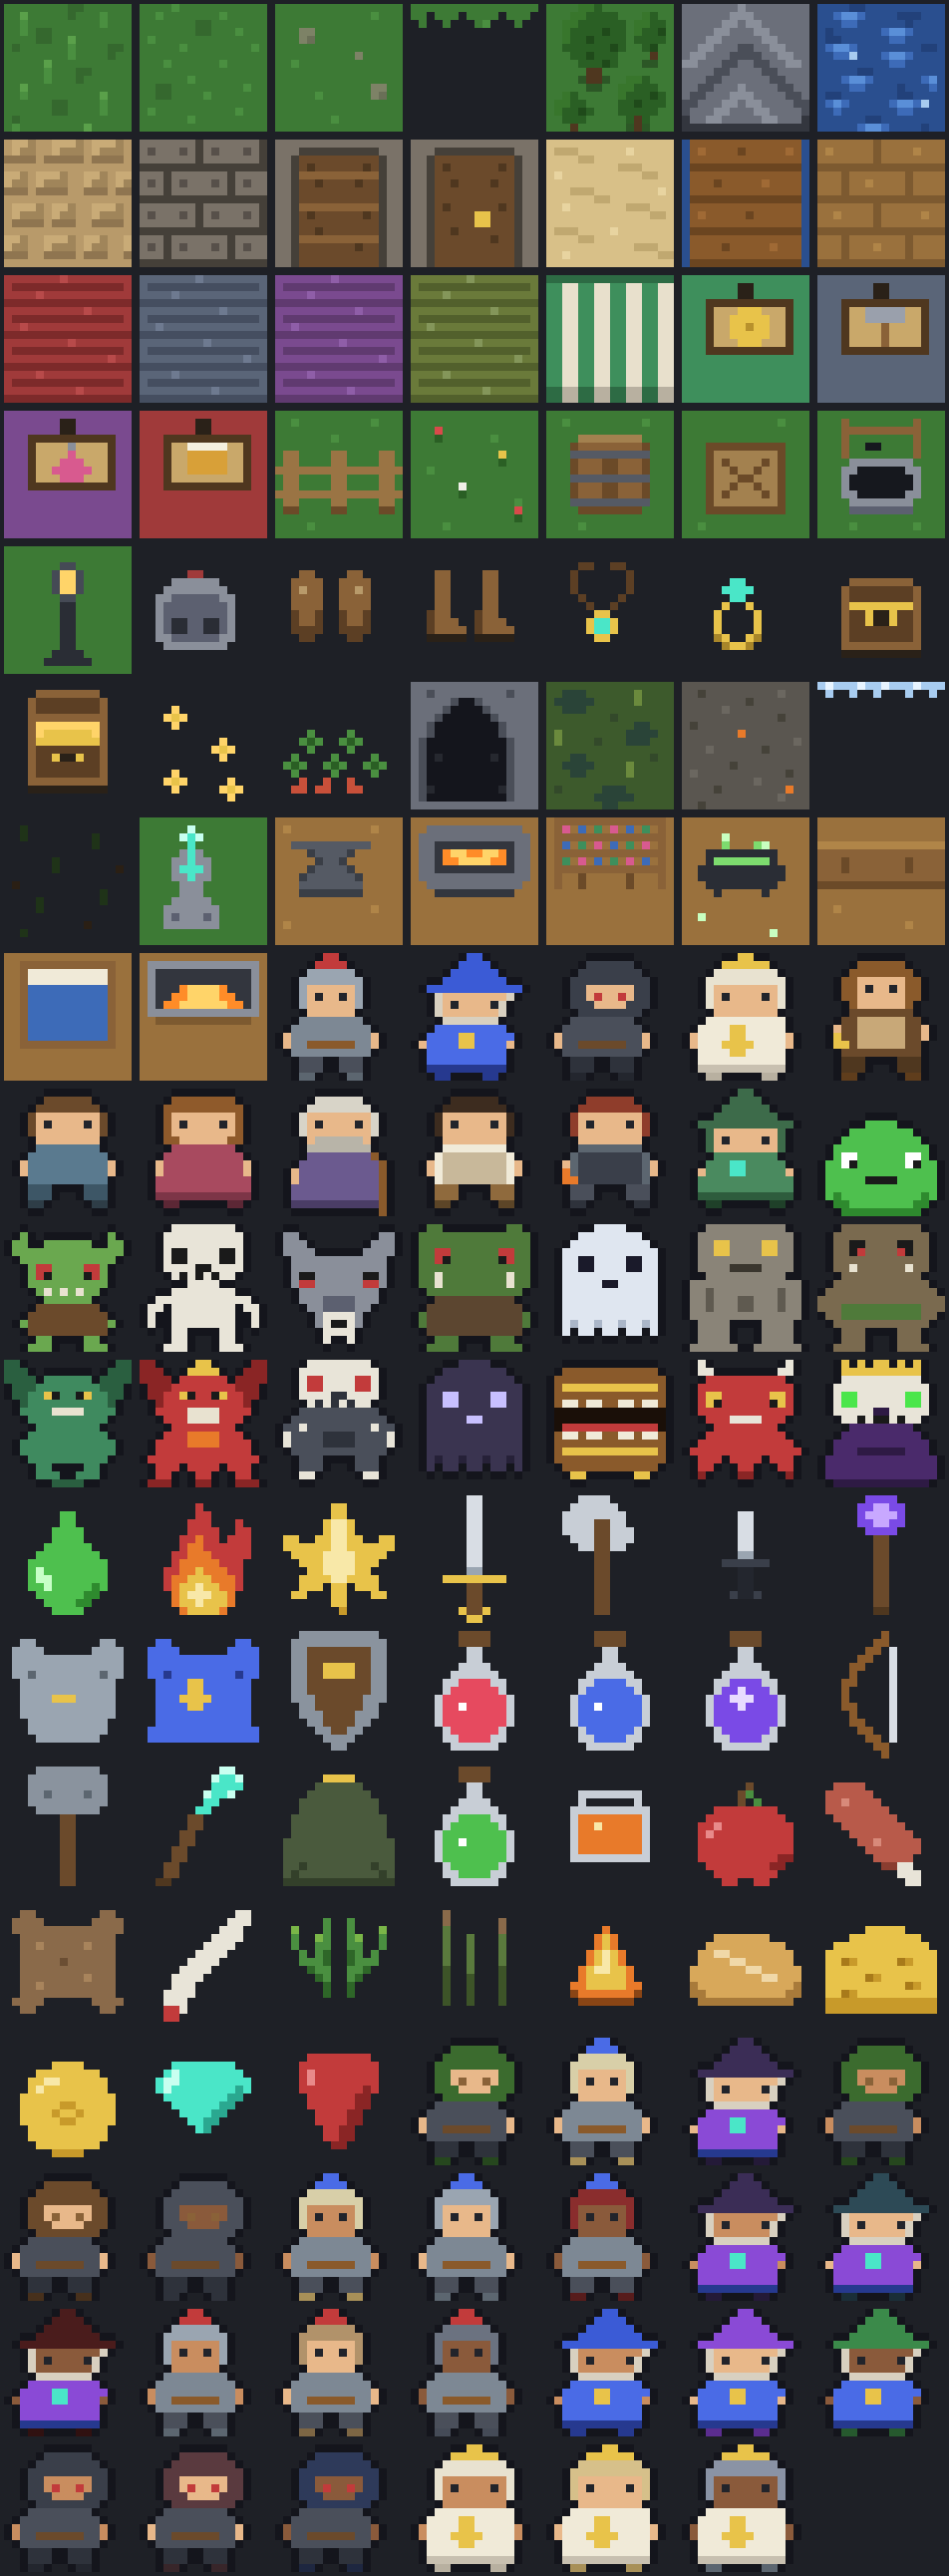
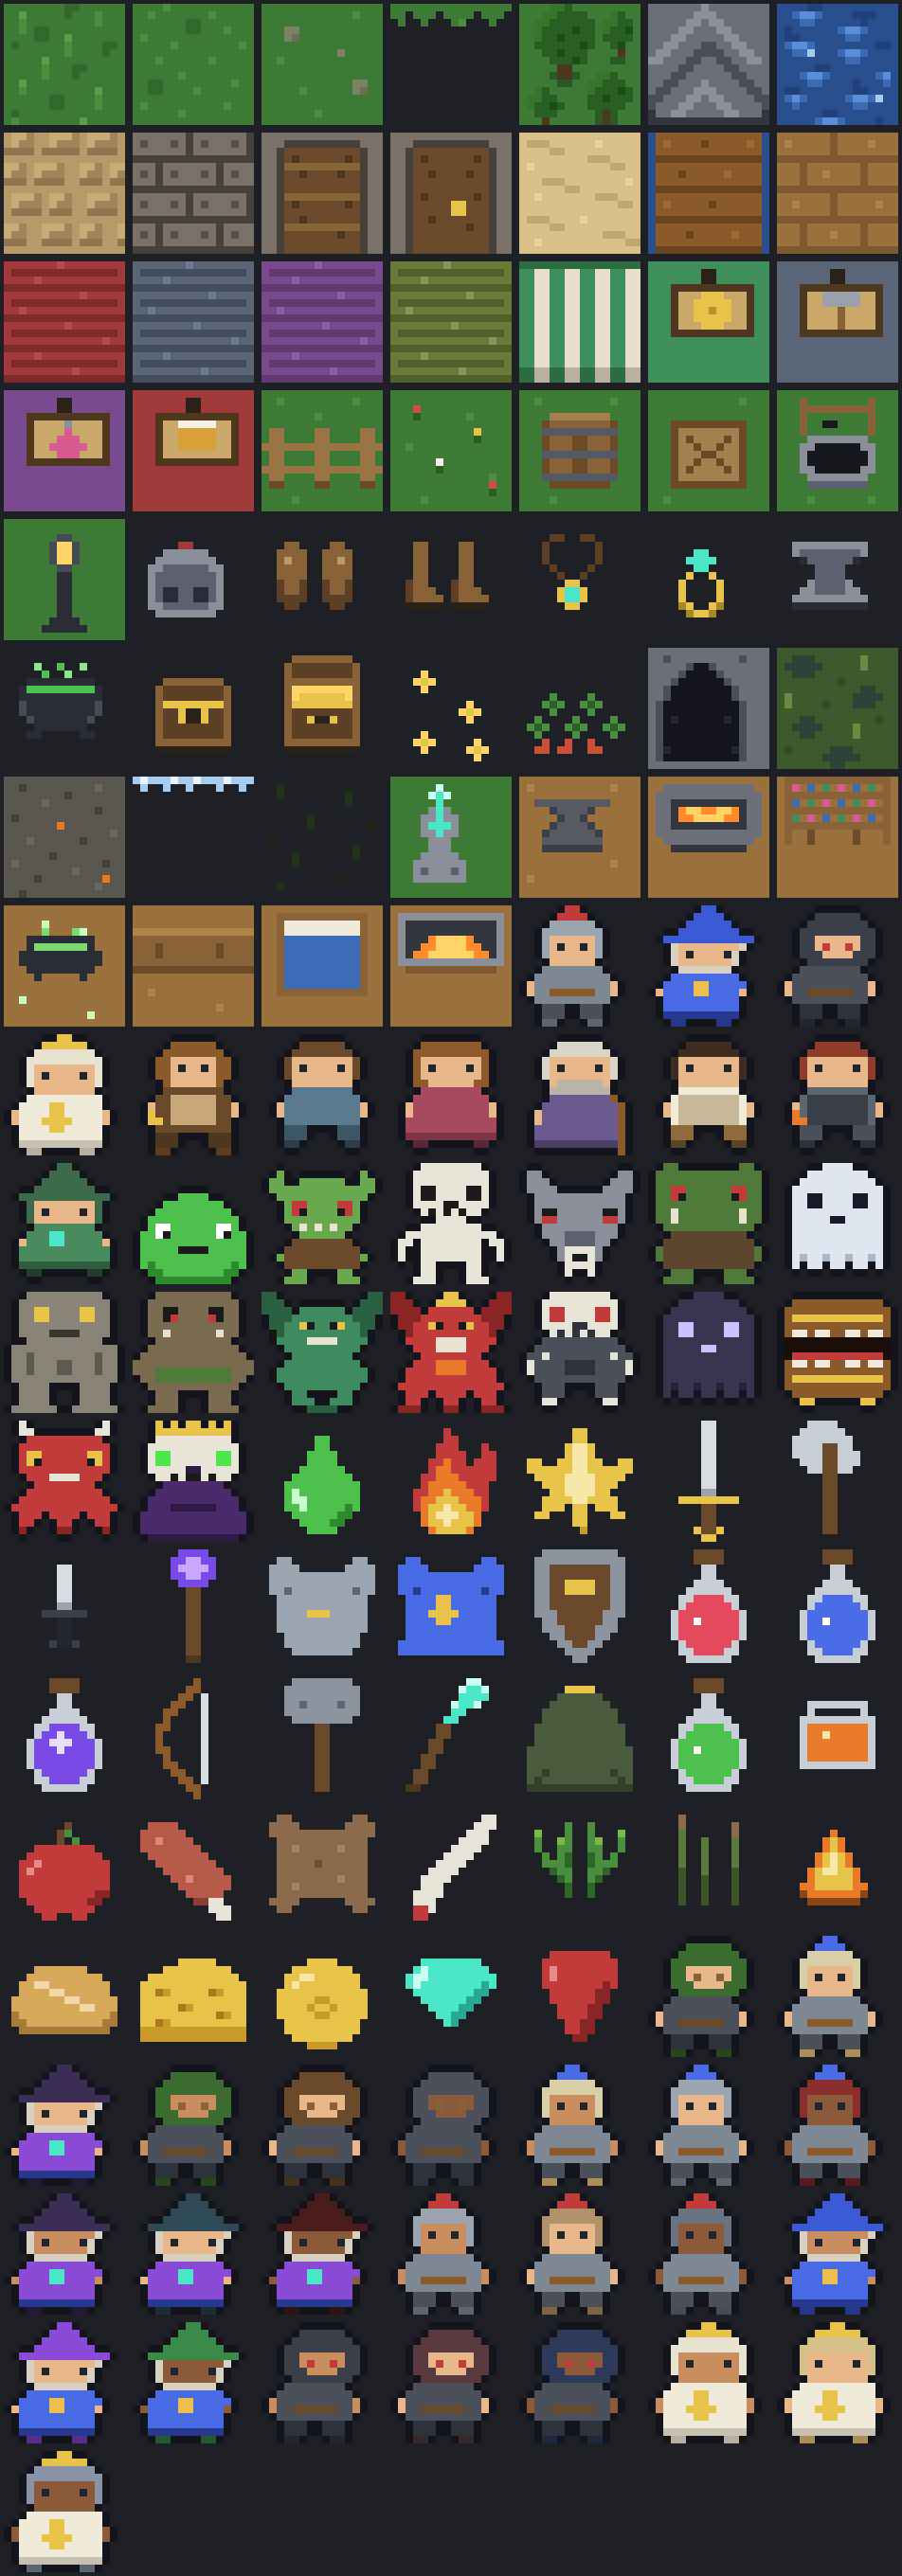
feat: craft stations findable and reachable (v0.33 Signposted)
Anvil and cauldron icons over the FORGE and BREWS doors, a Travel to
town button on the Craft tab when away (fast-travels to Pixelheim Gate
once discovered), and a green at-the-station banner when standing in
one. Changelog also records the Esc and Drop All fixes from #74.

diff --git a/e2e/station-access.spec.ts b/e2e/station-access.spec.ts
@@ -1,0 +1,42 @@
+import { expect, test } from '@playwright/test'
+import { loadVeteranAt } from './helpers'
+
+test('the craft tab walks you to the stations', async ({ page }) => {
+  // a veteran out in the wilds, town already seen
+  await loadVeteranAt(page, 30, 17)
+  await page.evaluate(() => {
+    const raw = localStorage.getItem('pixelheim-save-v1')!
+    const save = JSON.parse(raw)
+    save.state.world.discovered = { overworld: ['24,21'] } // the town gate marker
+    localStorage.setItem('pixelheim-save-v1', JSON.stringify(save))
+  })
+  await page.reload()
+  await page.getByRole('button', { name: 'Continue' }).click()
+
+  await page.keyboard.press('i')
+  await page.getByRole('button', { name: 'Craft', exact: true }).click()
+
+  // away from a station: the guide row offers the trip
+  await expect(page.getByText('The stations are in town')).toBeVisible()
+  await page.getByRole('button', { name: 'Travel to town' }).click()
+
+  // inventory closed, hero standing at Pixelheim Gate
+  await expect(page.getByTestId('world-hero')).toHaveAttribute('data-pos', '24,20')
+  await expect(page.getByText('You travel to Pixelheim Gate.')).toBeVisible()
+})
+
+test('standing at the forge, the craft tab says so', async ({ page }) => {
+  await loadVeteranAt(page, 4, 4, 'town_smith')
+  await page.keyboard.press('i')
+  await page.getByRole('button', { name: 'Craft', exact: true }).click()
+  await expect(page.getByTestId('station-banner')).toContainText("Hilda's forge")
+})
+
+test('station doors carry their trade icons', async ({ page }) => {
+  await loadVeteranAt(page, 24, 20)
+  // walk south into town
+  await page.keyboard.press('ArrowDown')
+  await expect(page.getByTestId('world-viewport')).toHaveAttribute('data-map', 'town')
+  const icons = page.locator('[data-testid="door-sign"][data-icon]')
+  await expect(icons).toHaveCount(2)
+})

diff --git a/src/ui/panels/Inventory.tsx b/src/ui/panels/Inventory.tsx
@@ -7,6 +7,7 @@ import { JOB_NAMES, JOB_STATIONS } from "../../game/economy/jobs";
 import { canCraft, RECIPES } from "../../game/economy/recipes";
 import type { EquippedSlot, GrantStat, ItemCategory } from "../../game/types";
 import { dispatch, useGameState, useHero } from "../../state/store";
+import { waypointDiscovered, WAYPOINTS } from "../../world/waypoints";
 import { Sprite } from "../widgets/Sprite";
 
 const TABS: { id: ItemCategory | "all" | "craft"; label: string }[] = [
@@ -31,6 +32,8 @@ const DOLL_SLOTS: { slot: EquippedSlot; label: string }[] = [
   { slot: "ring2", label: "Ring" },
   { slot: "feet", label: "Feet" },
 ];
+
+const TOWN_GATE = WAYPOINTS.find((w) => w.id === "town_gate");
 
 const GRANT_STATS: { stat: GrantStat; label: string }[] = [
   { stat: "strength", label: "STR" },
@@ -59,6 +62,12 @@ export function Inventory() {
         .toSorted(
           (a, b) => gearItem(a).category.localeCompare(gearItem(b).category) || gearName(a).localeCompare(gearName(b)),
         );
+
+  // Which station (if any) the hero is standing in, and whether town is reachable.
+  const atStationId = (Object.entries(JOB_STATIONS) as [keyof typeof JOB_STATIONS, { mapId: string }][]).find(
+    ([, station]) => state.world?.position.mapId === station.mapId,
+  )?.[0];
+  const townKnown = TOWN_GATE ? waypointDiscovered(TOWN_GATE, state.world?.discovered ?? {}) : false;
 
   const weight = carriedWeight(state.inventory, state.gear, state.equipped);
   const capacity = carryCapacity(hero, state.gear, state.equipped);
@@ -157,6 +166,27 @@ export function Inventory() {
         </div>
 
         <div className="item-list">
+          {tab === "craft" && atStationId && (
+            <p className="station-banner" data-testid="station-banner">
+              You are at {atStationId === "smithing" ? "Hilda's forge" : "Vex's cauldron"} - craft freely.
+            </p>
+          )}
+          {tab === "craft" && !atStationId && !inBattle && (
+            <div className="station-travel">
+              <span className="item-locked">The stations are in town: the FORGE and BREWS doors.</span>
+              <button
+                className="btn btn-small"
+                disabled={!townKnown}
+                title={townKnown ? "Fast travel to Pixelheim Gate" : "Discover Pixelheim Gate first"}
+                onClick={() => {
+                  dispatch({ type: "TOGGLE_INVENTORY" });
+                  dispatch({ type: "FAST_TRAVEL", waypointId: "town_gate" });
+                }}
+              >
+                Travel to town
+              </button>
+            </div>
+          )}
           {tab === "craft" &&
             RECIPES.map((recipe) => {
               const result = getItem(recipe.itemId);

diff --git a/src/app/index.css b/src/app/index.css
@@ -911,6 +911,23 @@ body {
     align-self: auto;
   }
 }
+.station-banner {
+  margin: 0;
+  padding: 6px 10px;
+  color: #8ae68a;
+  background: rgba(78, 192, 78, 0.08);
+  border: 1px solid rgba(78, 192, 78, 0.35);
+  font-size: 12px;
+}
+.station-travel {
+  display: flex;
+  align-items: center;
+  justify-content: space-between;
+  gap: 10px;
+  padding: 6px 10px;
+  border: 1px solid var(--border);
+  background: var(--bg-panel-2);
+}
 .merchant-line {
   color: var(--text-dim);
   font-size: 12px;

diff --git a/src/world/signs.ts b/src/world/signs.ts
@@ -4,19 +4,19 @@ import { getMap } from "./maps/index";
  * Door signs: the town's buildings say what they are, so nobody wanders the
  * village hunting for the forge. Keyed by the map a door leads into.
  */
-export const DOOR_SIGNS: Record<string, string> = {
-  town_shop: "GOODS",
-  town_smith: "FORGE",
-  town_alchemist: "BREWS",
-  town_inn: "INN",
+export const DOOR_SIGNS: Record<string, { label: string; icon?: string }> = {
+  town_shop: { label: "GOODS" },
+  town_smith: { label: "FORGE", icon: "icon_anvil" },
+  town_alchemist: { label: "BREWS", icon: "icon_cauldron" },
+  town_inn: { label: "INN" },
 };
 
-export type DoorSign = { x: number; y: number; label: string };
+export type DoorSign = { x: number; y: number; label: string; icon?: string };
 
 export function signsOn(mapId: string): DoorSign[] {
   return getMap(mapId).portals.flatMap((portal) =>
     portal.to.kind === "map" && DOOR_SIGNS[portal.to.mapId]
-      ? [{ x: portal.x, y: portal.y, label: DOOR_SIGNS[portal.to.mapId] }]
+      ? [{ x: portal.x, y: portal.y, ...DOOR_SIGNS[portal.to.mapId] }]
       : [],
   );
 }

diff --git a/src/app/changelog.ts b/src/app/changelog.ts
@@ -11,6 +11,18 @@ export type Release = {
  */
 export const CHANGELOG: Release[] = [
   {
+    version: "0.33.0",
+    date: "2026-07-17",
+    codename: "Signposted",
+    notes: [
+      "The craft stations finally introduce themselves: an anvil hangs over the FORGE door, a bubbling cauldron over BREWS",
+      "Lost with a pocket full of pelts? The Craft tab now offers 'Travel to town' - one click to Pixelheim Gate",
+      "Standing at a station, the Craft tab says so in green: craft freely",
+      "Esc got manners: it closes the menu you are in, and only pauses when nothing else is open",
+      "Any stack can be dropped - one at a time, or the whole pile with Drop All",
+    ],
+  },
+  {
     version: "0.32.0",
     date: "2026-07-17",
     codename: "New Blood",

diff --git a/src/render/worldActors.ts b/src/render/worldActors.ts
@@ -112,6 +112,13 @@ export class ActorLayer {
 
     // Door signs: little wooden plates telling you what each building is.
     for (const sign of signsOn(map.id)) {
+      // Craft stations advertise their trade with an icon over the plate.
+      if (sign.icon) {
+        const icon = new Sprite(Assets.get(sign.icon) as Texture);
+        icon.anchor.set(0.5, 1);
+        icon.position.set(sign.x * ART + ART / 2, sign.y * ART - 10);
+        container.addChild(icon);
+      }
       const label = pixelText(sign.label, 0xe8c34a);
       const w = label.width + 4;
       const h = label.height + 2;

diff --git a/src/ui/screens/WorldScreen.tsx b/src/ui/screens/WorldScreen.tsx
@@ -139,7 +139,7 @@ export function WorldScreen() {
               />
             ))}
             {signsOn(map.id).map((sign) => (
-              <div key={`${sign.x},${sign.y}`} data-testid="door-sign" data-label={sign.label} />
+              <div key={`${sign.x},${sign.y}`} data-testid="door-sign" data-label={sign.label} data-icon={sign.icon} />
             ))}
             {(facingNpc || facingChest) && <div data-testid="npc-prompt" />}
           </div>
@@ -203,6 +203,7 @@ export function WorldScreen() {
               className="door-sign"
               style={{ left: (sign.x + 0.5) * tilePx, top: sign.y * tilePx }}
             >
+              {sign.icon && <Sprite name={sign.icon} size={16} alt="" />}
               {sign.label}
             </span>
           ))}

diff --git a/src/render/worldRenderer.ts b/src/render/worldRenderer.ts
@@ -123,6 +123,8 @@ export class WorldRenderer {
         { alias: "overlay_wild", src: `${base}sprites/overlay_wild.png` },
         { alias: "overlay_path_edge", src: `${base}sprites/overlay_path_edge.png` },
         { alias: "overlay_shore", src: `${base}sprites/overlay_shore.png` },
+        { alias: "icon_anvil", src: `${base}sprites/icon_anvil.png` },
+        { alias: "icon_cauldron", src: `${base}sprites/icon_cauldron.png` },
         ...["chest_closed", "chest_open", "road_glint", "herb_patch"].map((name) => ({
           alias: name,
           src: `${base}sprites/${name}.png`,